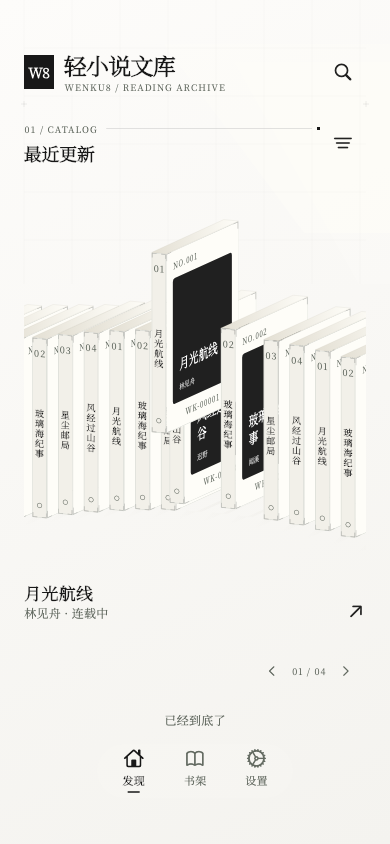
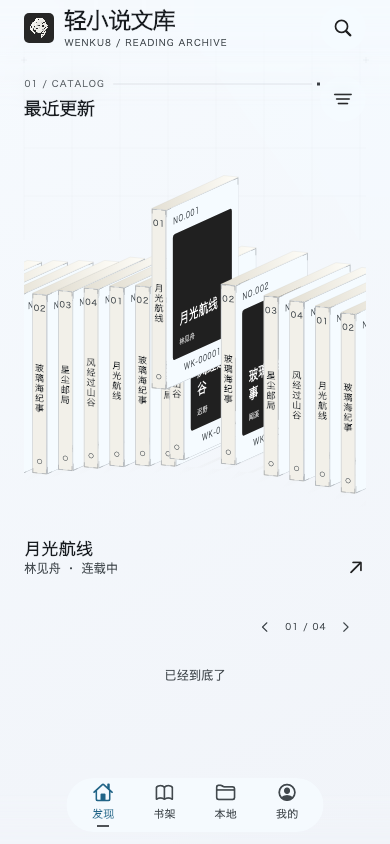
docs: refresh current reader and theme previews

diff --git a/README.md b/README.md
@@ -33,10 +33,10 @@
   &nbsp;
   <img src="docs/images/reader.png" width="30%" alt="阅读 · 横排、竖排与沉浸阅读" />
   &nbsp;
-  <img src="docs/images/settings.png" width="30%" alt="设置 · 按自己的习惯调整" />
+  <img src="docs/images/settings.png" width="30%" alt="配色 · 按自己的习惯调整" />
 </p>
 
-<p align="center"><sub>发现故事　／　沉浸阅读　／　按习惯定制</sub></p>
+<p align="center"><sub>发现故事　／　沉浸阅读　／　按习惯定制<br />界面书目为演示数据</sub></p>
 
 ## 阅读，按你的习惯
 
